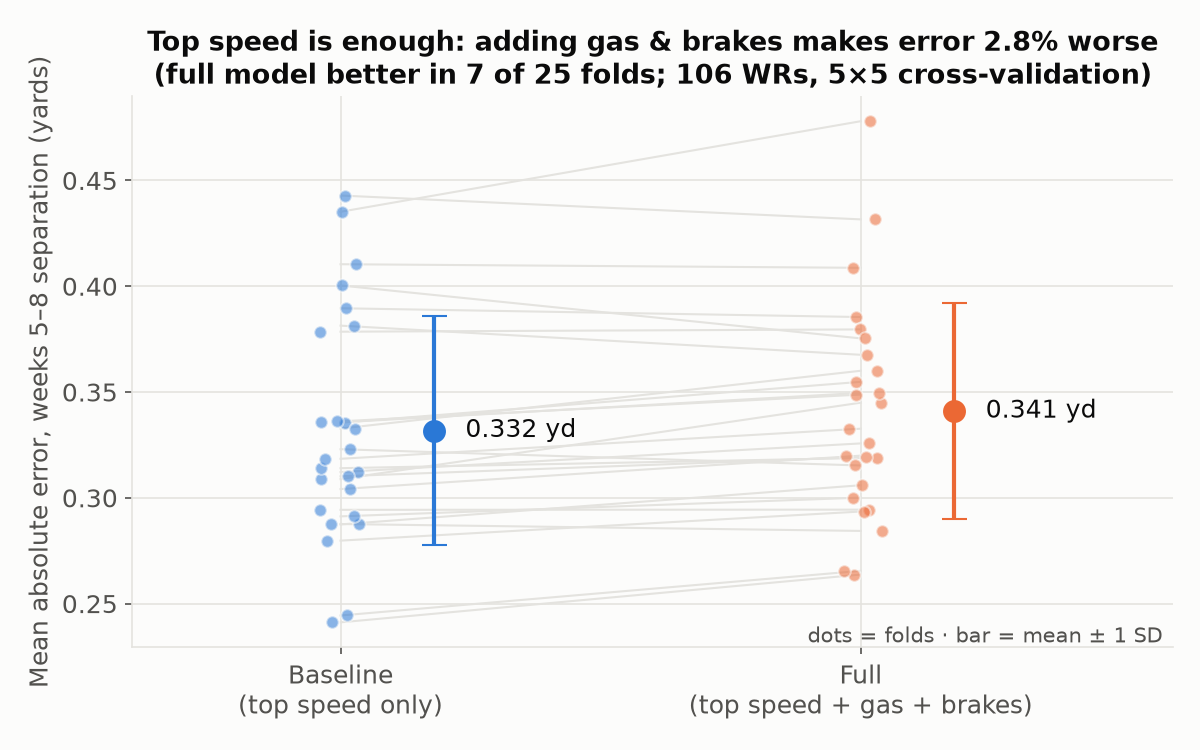
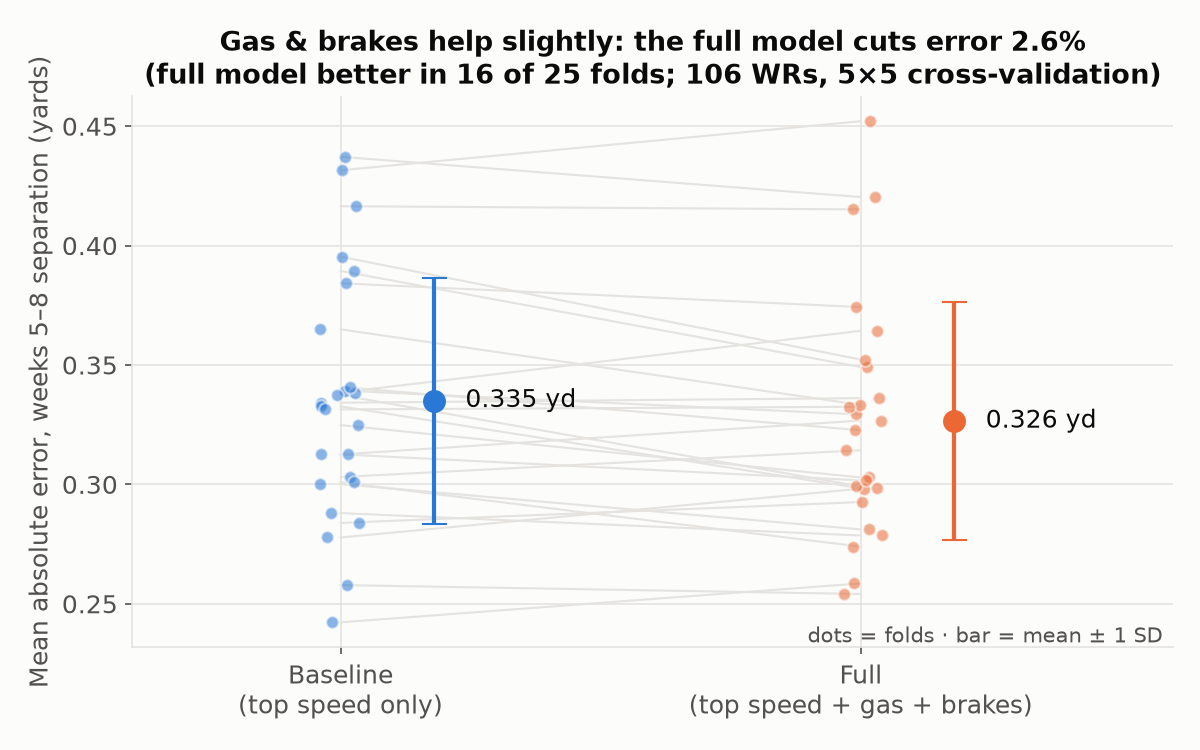
Use TabPFN for both feature sets; update chart and notes

diff --git a/src/04_charts.py b/src/04_charts.py
@@ -39,7 +39,8 @@ def model_comparison():
     mean = wide.mean()
     improve = (mean["baseline"] - mean["full"]) / mean["baseline"] * 100
     wins = int((wide["full"] < wide["baseline"]).sum())
-    verdict = "Gas & brakes help" if improve > 0 else "Top speed is enough"
+    verdict = ("Gas & brakes help" if improve >= 5 else "Gas & brakes help slightly") if improve > 0 \
+        else "Top speed is enough"
 
     fig, ax = plt.subplots(figsize=(8, 5))
     # one thin gray line per fold joins the two models' errors on the same split
@@ -57,7 +58,7 @@ def model_comparison():
     ax.set_xlim(-0.4, 1.6)
     ax.set_ylabel("Mean absolute error, weeks 5–8 separation (yards)")
     change = f"cuts error {improve:.1f}%" if improve > 0 else f"makes error {-improve:.1f}% worse"
-    ax.set_title(f"{verdict}: adding gas & brakes {change}\n"
+    ax.set_title(f"{verdict}: the full model {change}\n"
                  f"(full model better in {wins} of {len(wide)} folds; 106 WRs, 5×5 cross-validation)")
     ax.text(1.58, ax.get_ylim()[0], "dots = folds · bar = mean ± 1 SD", ha="right", va="bottom",
             color=INK2, fontsize=10)

diff --git a/notes/alex_readme.md b/notes/alex_readme.md
@@ -1,29 +1,30 @@
 # Alex's notes for the README
 
 ## Method (one sentence)
-From NFL tracking data we built a per-route speed curve for every wide receiver route on pass plays, summarized each WR's gas (speed and peak acceleration in the first second) and brakes (hardest deceleration and biggest speed drop in the first 3 s) over weeks 1–4, and predicted his average separation in weeks 5–8 with the same model with and without those features, using 5-fold cross-validation across players repeated 5 times.
+From NFL tracking data we built a per-route speed curve for every wide receiver route on pass plays, summarized each WR's gas (speed and peak acceleration in the first second) and brakes (hardest deceleration and biggest speed drop in the first 3 s) over weeks 1–4, and predicted his average separation in weeks 5–8 with the same model (TabPFN) with and without those features, using 5-fold cross-validation across players repeated 5 times.
 
 ## Result (one sentence)
-Top speed is enough, and neither predicts much: adding gas and brakes did not improve the prediction of future separation (mean MAE 0.332 yd with top speed alone vs. 0.341 yd with gas and brakes, 2.8% worse, full model better in only 28% of 25 folds; cross-validated R² below 0 for both), and top speed was the only feature whose effect was clearly above zero (+0.07 yd per SD).
+Gas and brakes help only slightly, and neither model predicts much: with TabPFN, adding them cut the error in predicting weeks 5–8 separation by 2.6% (mean MAE 0.335 yd with top speed alone vs. 0.326 yd with gas and brakes, full model better in 16 of 25 folds), but cross-validated R² stays below 0 for both and top speed is the only feature whose linear effect is clearly above zero (+0.07 yd per SD).
 
 Chart note: `metric_vs_separation.png` uses `speed_drop`, the strongest brakes feature (Spearman 0.23 with weeks 5–8 separation) and nearly unrelated to top speed (Spearman −0.06), so it asks "is braking a different skill from speed?"
 
 ## Supporting numbers
 - 106 WRs with 20+ routes in both weeks 1–4 and weeks 5–8 (34,478 WR/TE/RB routes built from all 122 games).
+- For scale: guessing the average for every WR gives an MAE of 0.344 yd, so the full model is about 5% better than knowing nothing.
 - Getting open is itself fairly stable: Spearman of weeks 1–4 separation with weeks 5–8 separation = 0.51, much higher than any speed feature (top speed 0.24, speed_drop 0.23, peak_decel 0.18).
-- Neither model explains much: cross-validated R² is below 0 for both, so movement style and top speed alone explain little of who gets open.
-- Man vs. zone (optional): against man, nothing predicts separation (all effects ≈ 0); against zone, the full model ties the baseline (+0.9%, wins 72% of folds) with speed_drop the largest effect (+0.05 yd per SD, interval crosses 0). A hint, not a finding.
+- The result depends on the model: with the linear RidgeCV fallback the full model was 2.8% *worse* (wins 7 of 25 folds). TabPFN can use non-linear patterns that a linear model can't, which is where the small gain comes from. The linear BayesianRidge effects are the same under both.
+- Man vs. zone (optional, run with RidgeCV): against man, nothing predicts separation (all effects ≈ 0); against zone, the full model ties the baseline (+0.9%, wins 72% of folds) with speed_drop the largest effect (+0.05 yd per SD, interval crosses 0). A hint, not a finding.
 
 ## Deviations from the framework
-1. **RidgeCV instead of TabPFN.** TabPFN 9.2 requires a Prior Labs license acceptance and API token before it can download weights, so it failed to load. Per the framework, both feature sets use `RidgeCV(alphas=np.logspace(-3, 3, 13))` on standardized features.
-2. **Brakes features use the 90th percentile, not the median (Leo's review).** `peak_decel` and `speed_drop` are now the 90th percentile of a WR's weeks 1–4 routes, matching `top_speed`; `speed_1s` and `peak_accel_1s` stay medians. Reason: 69% of movement windows are cut at the throw (median 2.6 s), so many routes end before the break, and a median measured how often a WR breaks rather than how hard. This change was made after seeing the first result; we report both:
-   - Median brakes: full 4.0% worse than baseline, wins 24% of folds.
-   - 90th-percentile brakes (final): full 2.8% worse, wins 28% of folds.
-   Same conclusion either way.
+1. **TabPFN needs an API key.** TabPFN 9.2 requires a Prior Labs license acceptance and an API key set as the `TABPFN_TOKEN` environment variable. With it, both feature sets use `TabPFNRegressor()` (the framework's main model). Without it, `03_models.py` falls back to `RidgeCV(alphas=np.logspace(-3, 3, 13))` on standardized features for both sets, which gives the RidgeCV numbers above.
+2. **Brakes features use the 90th percentile, not the median (Leo's review).** `peak_decel` and `speed_drop` are now the 90th percentile of a WR's weeks 1–4 routes, matching `top_speed`; `speed_1s` and `peak_accel_1s` stay medians. Reason: 69% of movement windows are cut at the throw (median 2.6 s), so many routes end before the break, and a median measured how often a WR breaks rather than how hard. This change was made after seeing the first (RidgeCV) result; we report both:
+   - Median brakes (RidgeCV): full 4.0% worse than baseline, wins 24% of folds.
+   - 90th-percentile brakes (RidgeCV): full 2.8% worse, wins 28% of folds.
+   - 90th-percentile brakes (TabPFN, final): full 2.6% better, wins 64% of folds.
 3. **Position group: WRs only, no position one-hot** (106 WRs ≥ 40, per the decision table).
 4. Smoothing uses `min_periods=1` at the edges of each route so the first and last frames keep a value.
 
 ## How to run
 1. Download the event data from github.com/ThompsonJamesBliss/nfl-big-data-bowl-regional-event-data into `data/raw/` (so `data/raw/games.csv`, `data/raw/tracking/…`).
-2. `pip install -r requirements.txt`
-3. From the repo root, run in order: `python src/01_build_routes.py` (about 15 s), `python src/02_player_metrics.py`, `python src/03_models.py`, `python src/04_charts.py`, `python src/05_speed_curves.py`.
+2. `pip install -r requirements.txt` (add `pip install tabpfn` and set `TABPFN_TOKEN` to reproduce the TabPFN numbers; without them the script uses RidgeCV).
+3. From the repo root, run in order: `python src/01_build_routes.py` (about 15 s), `python src/02_player_metrics.py`, `python src/03_models.py` (about 2 min with TabPFN), `python src/04_charts.py`, `python src/05_speed_curves.py`.
